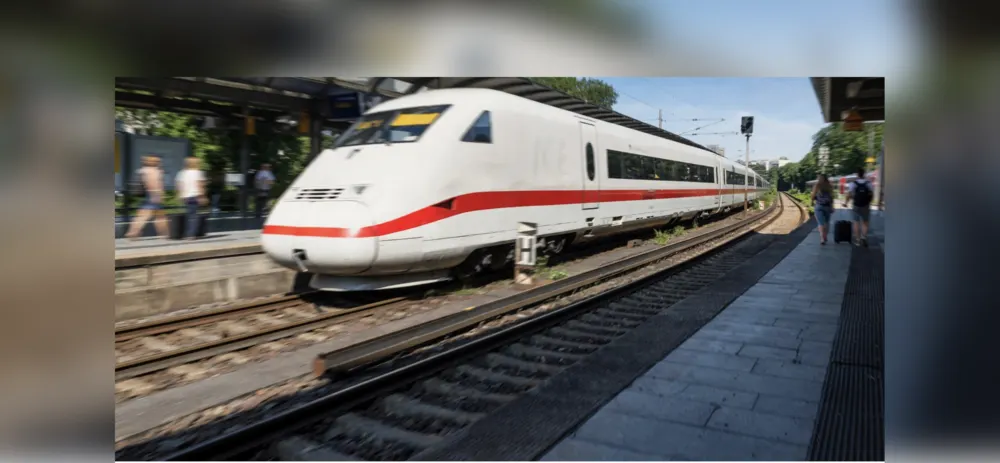
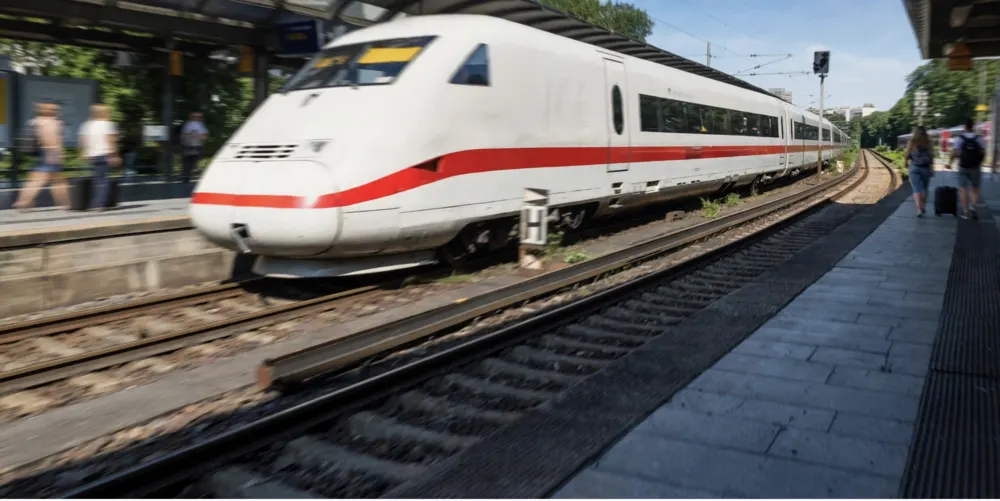
style(home): foto de Europa sin difuminado, a todo el ancho y más abajo

diff --git a/assets/css/home-redesign.css b/assets/css/home-redesign.css
@@ -870,7 +870,7 @@ body.home-v2 .search-card .ai-search-icon { color: #3d4152; }
 /* Portadas v3 con barrido (09-nov-2026): una foto por modo + desplazamiento lento */
 @keyframes heroSweep { from { background-position: 0% 50%, 0 0, 42% 50%; } to { background-position: 0% 50%, 0 0, 58% 50%; } }
 html body.home-v2 .hero-title-card::before {
-  background-image: linear-gradient(180deg, rgba(10,12,14,.5) 0%, rgba(10,12,14,.16) 55%, rgba(10,12,14,.34) 100%), linear-gradient(transparent, transparent), url('/assets/img/hero/home-v3-eu-2000.webp?v=4') !important;
+  background-image: linear-gradient(180deg, rgba(10,12,14,.5) 0%, rgba(10,12,14,.16) 55%, rgba(10,12,14,.34) 100%), linear-gradient(transparent, transparent), url('/assets/img/hero/home-v3-eu-2000.webp?v=5') !important;
   background-size: cover, cover, 115% auto !important; background-repeat: no-repeat !important;
   animation: heroSweep 22s ease-in-out infinite alternate;
 }
@@ -883,7 +883,7 @@ html body.home-v2.hotels-mode .hero-title-card::before {
 }
 html body.home-v2.hotels-mode .hotel-mosaic { display: none !important; }
 @media (max-width: 760px) {
-  html body.home-v2 .hero-title-card::before { background-image: linear-gradient(180deg, rgba(10,12,14,.5), rgba(10,12,14,.3)), linear-gradient(transparent, transparent), url('/assets/img/hero/home-v3-eu-1000.webp?v=4') !important; background-size: cover, cover, auto 100% !important; }
+  html body.home-v2 .hero-title-card::before { background-image: linear-gradient(180deg, rgba(10,12,14,.5), rgba(10,12,14,.3)), linear-gradient(transparent, transparent), url('/assets/img/hero/home-v3-eu-1000.webp?v=5') !important; background-size: cover, cover, auto 100% !important; }
   html body.home-v2[data-region="japan"] .hero-title-card::before { background-image: linear-gradient(180deg, rgba(10,12,14,.5), rgba(10,12,14,.3)), linear-gradient(transparent, transparent), url('/assets/img/hero/home-v3-jp-1000.webp') !important; }
   html body.home-v2.hotels-mode .hero-title-card::before { background-image: linear-gradient(180deg, rgba(10,12,14,.5), rgba(10,12,14,.3)), linear-gradient(transparent, transparent), url('/assets/img/hero/home-v3-hotel-1000.webp?v=2') !important; }
 }
@@ -939,3 +939,4 @@ html body.home-v2:not(.hotels-mode):not([data-region="japan"]) .hero-title-card:
 
 html body.home-v2:not(.hotels-mode):not([data-region="japan"]) .hero-title-card::before { --hy: 50%; background-size: cover, cover, cover !important; animation: none !important; background-position: 0 0, 0 0, 50% 50% !important; }
 html body.home-v2:not(.hotels-mode):not([data-region="japan"]) .hero-title-card::before { background-position: 0 0, 0 0, 50% 0% !important; }
+html body.home-v2:not(.hotels-mode):not([data-region="japan"]) .hero-title-card::before { background-color: #15171b !important; background-size: cover, cover, 100% auto !important; background-position: 0 0, 0 0, 50% 64px !important; }

diff --git a/es/index.html b/es/index.html
@@ -40,7 +40,7 @@
   <link rel="stylesheet" href="/assets/css/main.min.css" />
   <link rel="preload" as="image" href="/assets/img/hero/home-tren-1000.webp" media="(max-width: 760px)" fetchpriority="high" />
   <link rel="preload" as="image" href="/assets/img/hero/home-tren-2000.webp" media="(min-width: 761px)" fetchpriority="high" />
-  <link rel="stylesheet" href="/assets/css/home-redesign.css?v=81" />
+  <link rel="stylesheet" href="/assets/css/home-redesign.css?v=82" />
   <!-- Una sola familia (IBM Plex): Poppins se pedía y no está en el CSS.
        3 pesos, display=swap. media=print + onload para no bloquear el primer paint
        en 3G; el sistema tipográfico pinta el H1 al toque. -->

diff --git a/fr/index.html b/fr/index.html
@@ -40,7 +40,7 @@
   <link rel="stylesheet" href="/assets/css/main.min.css" />
   <link rel="preload" as="image" href="/assets/img/hero/home-tren-1000.webp" media="(max-width: 760px)" fetchpriority="high" />
   <link rel="preload" as="image" href="/assets/img/hero/home-tren-2000.webp" media="(min-width: 761px)" fetchpriority="high" />
-  <link rel="stylesheet" href="/assets/css/home-redesign.css?v=81" />
+  <link rel="stylesheet" href="/assets/css/home-redesign.css?v=82" />
   <!-- Una sola familia (IBM Plex): Poppins se pedía y no está en el CSS.
        3 pesos, display=swap. media=print + onload para no bloquear el primer paint
        en 3G; el sistema tipográfico pinta el H1 al toque. -->

diff --git a/index.html b/index.html
@@ -40,7 +40,7 @@
   <link rel="stylesheet" href="/assets/css/main.min.css" />
   <link rel="preload" as="image" href="/assets/img/hero/home-tren-1000.webp" media="(max-width: 760px)" fetchpriority="high" />
   <link rel="preload" as="image" href="/assets/img/hero/home-tren-2000.webp" media="(min-width: 761px)" fetchpriority="high" />
-  <link rel="stylesheet" href="/assets/css/home-redesign.css?v=81" />
+  <link rel="stylesheet" href="/assets/css/home-redesign.css?v=82" />
   <!-- Una sola familia (IBM Plex): Poppins se pedía y no está en el CSS.
        3 pesos, display=swap. media=print + onload para no bloquear el primer paint
        en 3G; el sistema tipográfico pinta el H1 al toque. -->

diff --git a/it/index.html b/it/index.html
@@ -40,7 +40,7 @@
   <link rel="stylesheet" href="/assets/css/main.min.css" />
   <link rel="preload" as="image" href="/assets/img/hero/home-tren-1000.webp" media="(max-width: 760px)" fetchpriority="high" />
   <link rel="preload" as="image" href="/assets/img/hero/home-tren-2000.webp" media="(min-width: 761px)" fetchpriority="high" />
-  <link rel="stylesheet" href="/assets/css/home-redesign.css?v=81" />
+  <link rel="stylesheet" href="/assets/css/home-redesign.css?v=82" />
   <!-- Una sola familia (IBM Plex): Poppins se pedía y no está en el CSS.
        3 pesos, display=swap. media=print + onload para no bloquear el primer paint
        en 3G; el sistema tipográfico pinta el H1 al toque. -->

diff --git a/ja/index.html b/ja/index.html
@@ -40,7 +40,7 @@
   <link rel="stylesheet" href="/assets/css/main.min.css" />
   <link rel="preload" as="image" href="/assets/img/hero/home-tren-1000.webp" media="(max-width: 760px)" fetchpriority="high" />
   <link rel="preload" as="image" href="/assets/img/hero/home-tren-2000.webp" media="(min-width: 761px)" fetchpriority="high" />
-  <link rel="stylesheet" href="/assets/css/home-redesign.css?v=81" />
+  <link rel="stylesheet" href="/assets/css/home-redesign.css?v=82" />
   <!-- Una sola familia (IBM Plex): Poppins se pedía y no está en el CSS.
        3 pesos, display=swap. media=print + onload para no bloquear el primer paint
        en 3G; el sistema tipográfico pinta el H1 al toque. -->
